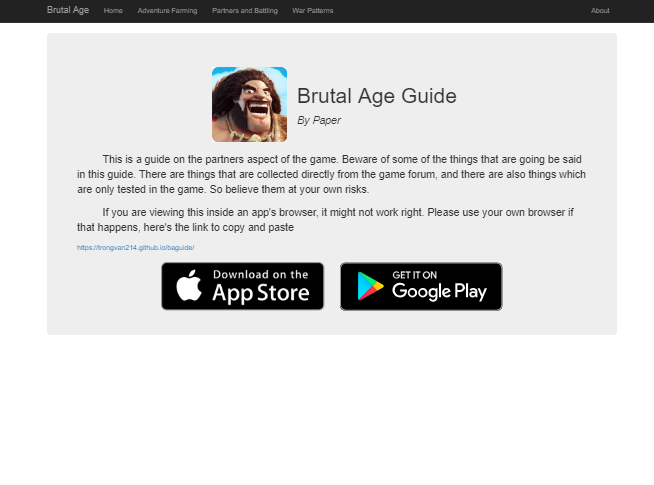
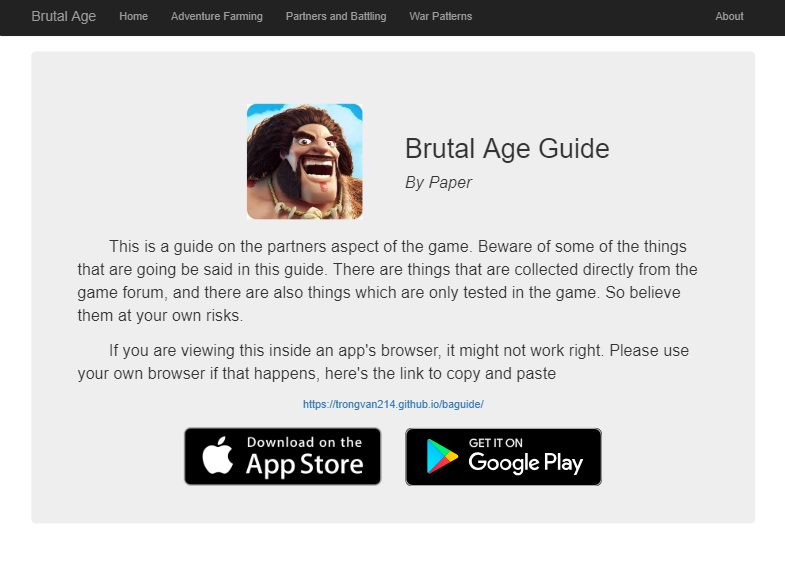
fixed css on about page

Changed region(s): [[0.0917, 0.1237, 0.8869, 0.7113], [0.2141, 0.7423, 0.7645, 0.866], [0.0, 0.0, 1.0, 0.0619]]

diff --git a/public/index.html b/public/index.html
@@ -4,14 +4,14 @@
     <meta charset="utf-8">
     <meta name="viewport" content="width=device-width, initial-scale=1, shrink-to-fit=no">
     <meta name="theme-color" content="#000000">
-    <title>Portfolio Website</title>
+    <title>Trong's Portfolio</title>
     <link rel="shortcut icon" type="image/x-icon" href="./favicon.ico">
     <link rel="stylesheet" href="https://use.fontawesome.com/releases/v5.0.13/css/all.css" integrity="sha384-DNOHZ68U8hZfKXOrtjWvjxusGo9WQnrNx2sqG0tfsghAvtVlRW3tvkXWZh58N9jp" crossorigin="anonymous">
     <link rel="stylesheet" href="https://maxcdn.bootstrapcdn.com/bootstrap/3.3.7/css/bootstrap.min.css" integrity="sha384-BVYiiSIFeK1dGmJRAkycuHAHRg32OmUcww7on3RYdg4Va+PmSTsz/K68vbdEjh4u" crossorigin="anonymous">
   </head>
   <body>
     <noscript>
-      You need to enable JavaScript to run this app.
+      You need to enable JavaScript to run this website.
     </noscript>
     <div id="root"></div>
   </body>

diff --git a/src/components/About.js b/src/components/About.js
@@ -7,7 +7,7 @@ export default class About extends Component {
             <section id="about" key="about">
                 <div className="about-info">
                     <h1>About Me</h1>
-                    <p>  My passion for coding started when I first took a 
+                    <p className="indent">My passion for coding started when I first took a 
                     programming class back in high school. I fell 
                     in love with it, and I've been coding ever since.
                     I make things from basics games to web apps with javascript.

diff --git a/src/components/css/About.css b/src/components/css/About.css
@@ -11,10 +11,10 @@
 }
 .about-info {
     position: absolute;
-    right: 35px;
+    right: 50px;
     top: 50%;
     transform: translateY(-50%);
-    max-width: 860px;
+    max-width: 60%;
     line-height: 100%;
 }
 .about-info h1 {
@@ -23,10 +23,10 @@
     text-align: center;
 }
 .about-info p {
-    font-size: 30px;
+    font-size: 20px;
     color: white;
     text-align: justify;
-    line-height: 70px;
+    line-height: 50px;
     text-indent: 7%;
 }
 @media screen and (max-width: 1024px) and (max-height: 1366px)  {

diff --git a/src/components/css/Portfolio.css b/src/components/css/Portfolio.css
@@ -64,6 +64,10 @@
         margin: 250px auto 0 auto;
 
     }  
+    .github-link {
+        bottom: 10px;
+        font-size: 1.3em;
+    }
 }
 @media screen and (max-width: 1024px) and (min-height: 1000px) and (max-height: 1366px)  {
     

diff --git a/src/app.css b/src/app.css
@@ -13,3 +13,7 @@ a:hover {
     color: white;
     text-decoration: none;
 }
+
+.indent {
+    text-indent: 10%;
+}
